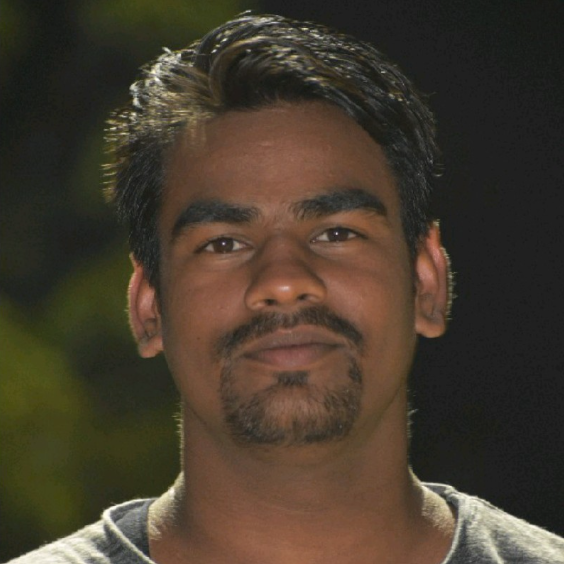
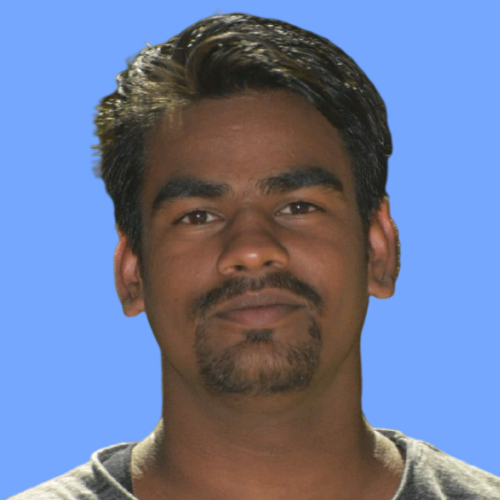
added

diff --git a/style.css b/style.css
@@ -53,13 +53,13 @@ footer {
   flex-wrap: wrap;
   align-items: center;
   justify-content: space-between;
-  margin-right: -50px;
+  /* margin-right: -50px;
   margin-left: 76px;
   margin-right: -12px;
-  margin-left: 16px;
+  margin-left: 16px; */
 }
 .serv-content{
-  margin-right: -50px;
+  /* margin-right: -50px; */
 }
 
 section{
@@ -90,7 +90,7 @@ section .title::after {
   bottom: -8px;
   left: 50%;
   font-size: 20px;
-  color: rgb(20,180,220);
+  color:#39dd34;
   padding: 0 5px;
   background: #fff;
   transform: translateX(-50%);
@@ -99,12 +99,12 @@ section .title::after {
 /* navbar styling */
 .navbar {
   position: fixed;
-  width: 85%;
+  width: 100%;
   z-index: 999;
-  padding: 30px 0;
+  /* padding: 30px 0; */
   font-family: "Ubuntu", sans-serif;
   transition: all 0.3s ease;
-  margin-left: 107px;
+  /* margin-left: 107px; */
 }
 .navbar.sticky {
   padding: 15px 0;
@@ -145,7 +145,7 @@ section .title::after {
   transition: color 0.3s ease;
 }
 .navbar .menu li a:hover {
-  color: rgb(20,180,220);
+  color: #39dd34;
 }
 
 
@@ -205,8 +205,8 @@ section .title::after {
   background-size: cover;
   background-attachment: fixed;
   font-family: "Ubuntu", sans-serif;
-  margin-left: 107px;
-  margin-right: 96px;
+  /* margin-left: 107px;
+  margin-right: 96px; */
 }
 .home .max-width {
   width: 100%;
@@ -270,8 +270,8 @@ background-position: 0 0,10px 10px; */
 opacity: 0.3; */
 background-image: radial-gradient(#ca0951 0.5px, #fff 0.5px);
 background-size: 10px 10px;
-margin-left: 107px;
-margin-right: 96px;
+/* margin-left: 107px;
+margin-right: 96px; */
 
 
 
@@ -334,8 +334,8 @@ margin-right: 96px;
 .project {
   color: #fff;
   background: #111;
-  margin-left: 107px;
-  margin-right: 96px;
+  /* margin-left: 107px;
+  margin-right: 96px; */
 }
 .services .title::before,
 .project .title::before {
@@ -355,8 +355,8 @@ margin-right: 96px;
   padding: 50px 25px;
   cursor: pointer;
   transition: all 0.3s ease;
-  margin-left: -60px;
-    margin-right: 60px;
+  /* margin-left: -60px;
+    margin-right: 60px; */
 }
 .services .serv-content .card:hover {
   /* background: rgb(20,180,220); */
@@ -908,8 +908,8 @@ footer span a:hover {
   grid-template-columns: repeat(auto-fit,minmax(250px,1fr));
   grid-gap: 40px;
   margin-top: 50px;
-  margin-left: 66px;
-  margin-right: 56px;
+  /* margin-left: 66px;
+  margin-right: 56px; */
 }
 .skills-list div{
   background : #E0E0E0;
@@ -1061,7 +1061,7 @@ footer span a:hover {
   }
 
   .box7{
-    width: 579px;
+    width: 600px;
     margin: auto;
       display: grid;
       grid-template-columns: repeat(auto-fill,minmax(100px,1fr));
@@ -1071,7 +1071,15 @@ footer span a:hover {
       text-align: center;
       align-items: center;
   }
-[10:23 pm, 27/09/2022] sujeet Bhai: <div class="calendar">
+
+  /* .calendar{ */
+    /* width: 84.5%; */
+    /* margin-left:12px; */
+  /* } */
+
+
+
+/* [10:23 pm, 27/09/2022] Pradeep kase: <div class="calendar">
 
     <!-- this is the div where your calander will apear -->
 
@@ -1203,4 +1211,5 @@ footer span a:hover {
 
 
 
-</div>
+</div> */
+

diff --git a/index.html b/index.html
@@ -55,7 +55,7 @@
             <h2 class="title">About me</h2>
             <div class="about-content">
                 <div class="column left">
-                   <img src="./images/Screenshot (397).png" alt="">
+                   <img src="./images/linkedin.png" alt="">
                 </div>
                 <div class="column right">
                     <div class="text">I'm Pradeep Kase and I'm a <span class="typing-2"></span></div>
@@ -194,8 +194,8 @@
                     <div class="box">
                         <img src="./images/Screenshot (419).png" alt="">
                         <div class="text">Zoomcar.com Clone</div>
-                        <p>Zoomcar is a self-drive car rental company headquartered in
-                            Bangalore, India.</p>
+                        <p>Zoomcar is a self-drive car rental company in
+                            B'lore, India.</p>
                         <p class="techStack">Tech Used: Html, CSS, JavaScript</p>
                         <div class="repo-links">
                             <div class="repo-div">
@@ -226,8 +226,8 @@
                 <div class="card">
                     <div class="box">
                         <img src="./images/Screenshot (421).png" alt="">
-                        <div class="text">Personal website</div>
-                        <p>bigbasket.com (Innovative Retail Concepts Private Limited) is India’s largest online food and grocery store.</p>
+                        <div class="text">bigbasket-Clone</div>
+                        <p>bigbasket.com is India’s largest online food and grocery store.</p>
                         <p class="techStack">Tech Used: Html, CSS , JavaScript</p>
                         <div class="repo-links">
                             <div class="repo-div">
@@ -307,12 +307,12 @@
         </div>
       </div>
       Hours <br>
-      of full stack coading
+      of coading
     </div>
     
     
     
-      <!-- <div>
+      <div>
       <div class="pieContainer">
         <div class="pieBackground">
         </div>
@@ -326,13 +326,13 @@
         </div>
         <div class="stat-circle-cover">  
             <span class="stat-number">
-              240+
+              100+
             </span>
         </div>
       </div>
-      Hackerrank <br>
+      Assaignment <br>
       problems
-    </div> -->
+    </div>
     
     
     
@@ -413,8 +413,8 @@
     
     <script>
         // write your username at dineshjangid03 for your calander
-        GitHubCalendar(".calendar", "abhitim");
-        GitHubCalendar(".calendar", "abhitim", { responsive: true });
+        GitHubCalendar(".calendar", "PradeepKase");
+        GitHubCalendar(".calendar", "PradeepKase", { responsive: true });
     </script>
 
 
